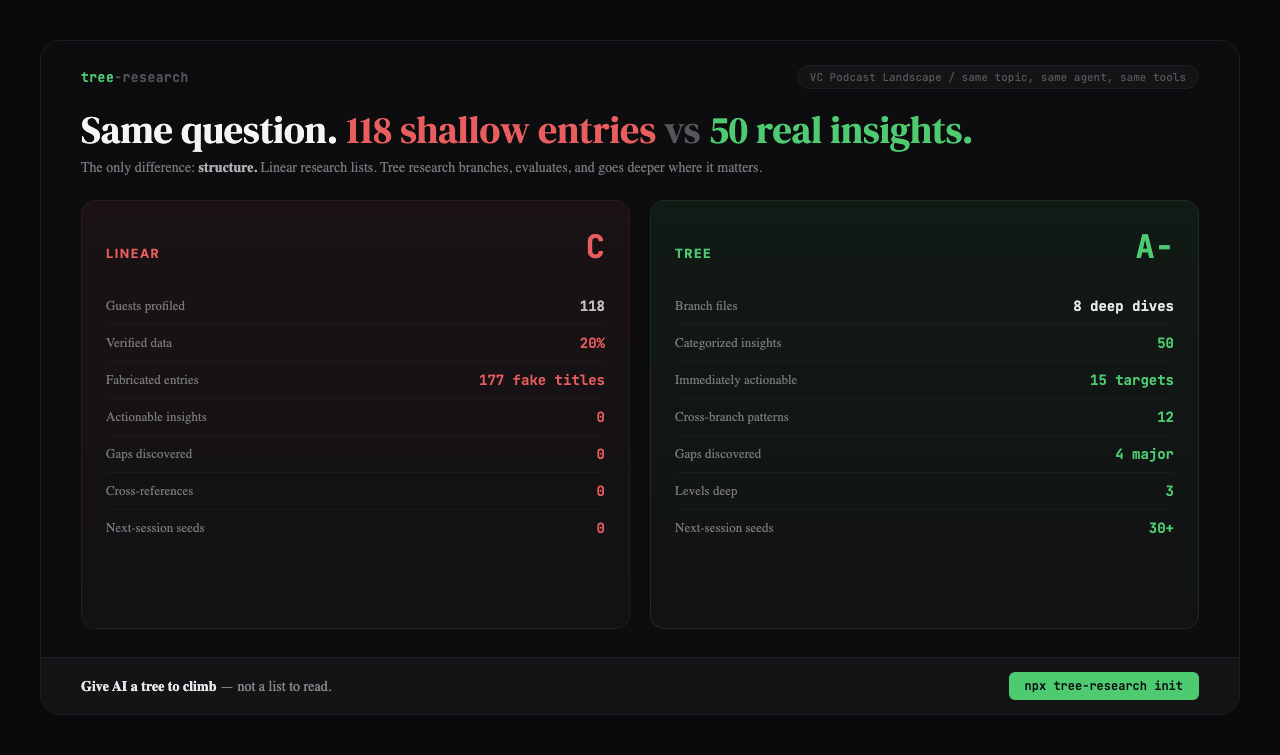
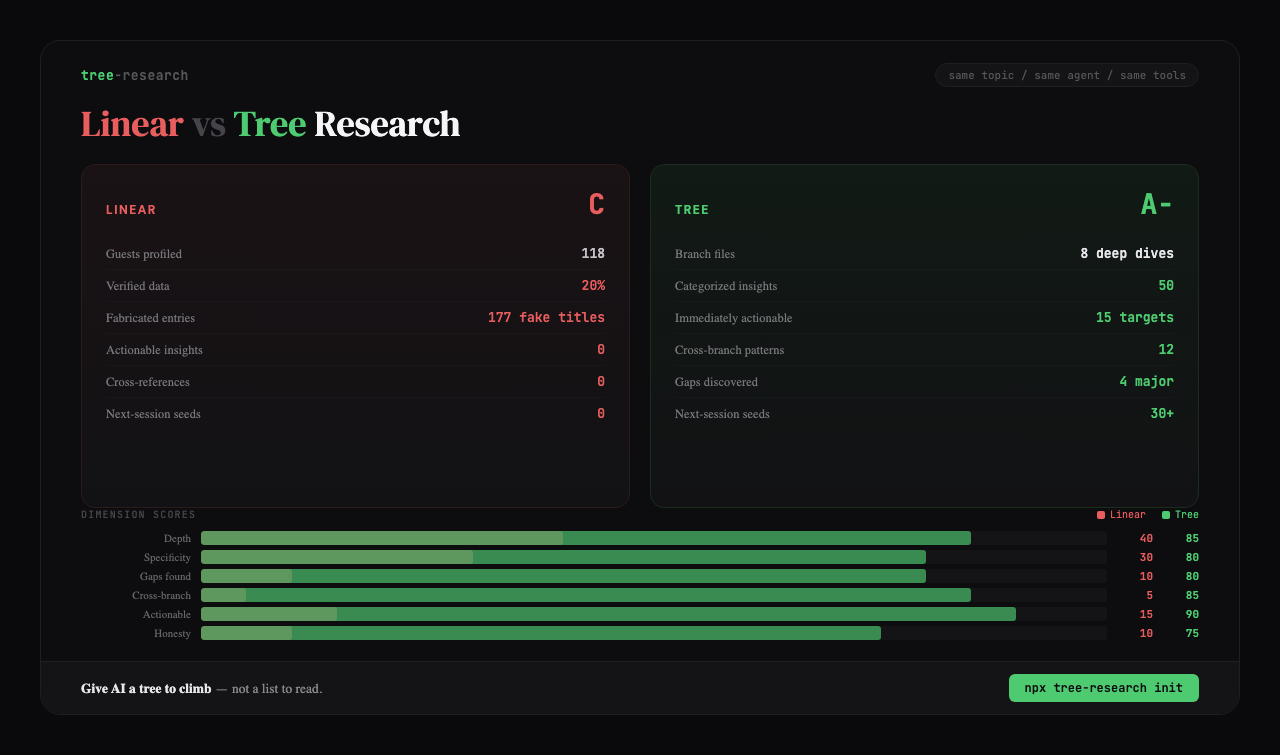
Update comparison card: headline + dimension score bars
Linear vs Tree Research headline. Added 6 dimension score bars
(depth, specificity, gaps, cross-branch, actionable, honesty)
with red/green layered fills and numeric scores.

diff --git a/examples/comparison-card.html b/examples/comparison-card.html
@@ -34,7 +34,7 @@
     display: flex;
     justify-content: space-between;
     align-items: center;
-    padding: 24px 40px 0 40px;
+    padding: 22px 40px 0 40px;
   }
 
   .logo {
@@ -59,28 +59,20 @@
 
   /* Headline */
   .headline {
-    padding: 20px 40px 0 40px;
+    padding: 16px 40px 0 40px;
   }
 
   .headline h1 {
     font-family: 'DM Serif Display', serif;
-    font-size: 38px;
+    font-size: 36px;
     font-weight: 400;
     color: #f5f5f7;
     line-height: 1.15;
   }
 
-  .headline h1 .dim { color: #55555a; }
-  .headline h1 .green { color: #4ecb71; }
   .headline h1 .red { color: #e85d5d; }
-
-  .headline .sub {
-    font-size: 14px;
-    color: #77777c;
-    margin-top: 6px;
-  }
-
-  .headline .sub strong { color: #b0b0b5; font-weight: 600; }
+  .headline h1 .green { color: #4ecb71; }
+  .headline h1 .dim { color: #44444a; }
 
   /* Main content area */
   .main {
@@ -88,13 +80,13 @@
     display: grid;
     grid-template-columns: 1fr 1fr;
     gap: 20px;
-    padding: 24px 40px 28px 40px;
+    padding: 20px 40px 0 40px;
   }
 
   /* Column cards */
   .col {
     border-radius: 14px;
-    padding: 24px;
+    padding: 20px 24px;
     display: flex;
     flex-direction: column;
   }
@@ -113,12 +105,12 @@
     display: flex;
     justify-content: space-between;
     align-items: baseline;
-    margin-bottom: 20px;
+    margin-bottom: 16px;
   }
 
   .col-title {
     font-family: 'DM Sans', sans-serif;
-    font-size: 13px;
+    font-size: 12px;
     font-weight: 700;
     letter-spacing: 1.5px;
     text-transform: uppercase;
@@ -129,7 +121,7 @@
 
   .col-grade {
     font-family: 'JetBrains Mono', monospace;
-    font-size: 32px;
+    font-size: 28px;
     font-weight: 700;
   }
 
@@ -138,7 +130,6 @@
 
   /* Metric rows */
   .metrics {
-    flex: 1;
     display: flex;
     flex-direction: column;
     gap: 0;
@@ -148,21 +139,21 @@
     display: flex;
     justify-content: space-between;
     align-items: center;
-    padding: 9px 0;
-    border-bottom: 1px solid #ffffff08;
+    padding: 7px 0;
+    border-bottom: 1px solid #ffffff06;
   }
 
   .m-row:last-child { border-bottom: none; }
 
   .m-label {
-    font-size: 13px;
+    font-size: 12.5px;
     color: #77777c;
     font-weight: 450;
   }
 
   .m-val {
     font-family: 'JetBrains Mono', monospace;
-    font-size: 14px;
+    font-size: 13px;
     font-weight: 600;
     text-align: right;
   }
@@ -173,18 +164,116 @@
   .m-val.bad { color: #e85d5d !important; }
   .m-val.good { color: #4ecb71 !important; }
 
-  /* Bottom bar with the punchline */
+  /* Score bars section */
+  .bars-section {
+    padding: 0 40px 16px 40px;
+  }
+
+  .bars-header {
+    display: flex;
+    justify-content: space-between;
+    align-items: center;
+    margin-bottom: 10px;
+  }
+
+  .bars-title {
+    font-family: 'JetBrains Mono', monospace;
+    font-size: 10px;
+    font-weight: 500;
+    letter-spacing: 1.2px;
+    text-transform: uppercase;
+    color: #44444a;
+  }
+
+  .bars-legend {
+    display: flex;
+    gap: 16px;
+    font-family: 'JetBrains Mono', monospace;
+    font-size: 10px;
+  }
+
+  .legend-item {
+    display: flex;
+    align-items: center;
+    gap: 5px;
+  }
+
+  .legend-dot {
+    width: 8px;
+    height: 8px;
+    border-radius: 2px;
+  }
+
+  .legend-dot.red { background: #e85d5d; }
+  .legend-dot.green { background: #4ecb71; }
+  .legend-label.red { color: #e85d5d; }
+  .legend-label.green { color: #4ecb71; }
+
+  .bar-row {
+    display: grid;
+    grid-template-columns: 110px 1fr 36px 36px;
+    align-items: center;
+    gap: 10px;
+    margin-bottom: 5px;
+  }
+
+  .bar-dim {
+    font-size: 11px;
+    color: #66666b;
+    font-weight: 500;
+    text-align: right;
+  }
+
+  .bar-track {
+    height: 14px;
+    background: #141416;
+    border-radius: 3px;
+    position: relative;
+    overflow: hidden;
+  }
+
+  .bar-fill {
+    position: absolute;
+    top: 0;
+    left: 0;
+    height: 100%;
+    border-radius: 3px;
+  }
+
+  .bar-fill.linear-bar {
+    background: #e85d5d;
+    opacity: 0.5;
+    z-index: 1;
+  }
+
+  .bar-fill.tree-bar {
+    background: #4ecb71;
+    opacity: 0.65;
+    z-index: 2;
+  }
+
+  .bar-num {
+    font-family: 'JetBrains Mono', monospace;
+    font-size: 11px;
+    font-weight: 600;
+    text-align: right;
+  }
+
+  .bar-num.red { color: #e85d5d; }
+  .bar-num.green { color: #4ecb71; }
+
+  /* Bottom bar */
   .bottom {
     background: #141416;
     border-top: 1px solid #1e1e24;
-    padding: 14px 40px;
+    padding: 12px 40px;
     display: flex;
     justify-content: space-between;
     align-items: center;
   }
 
   .bottom .punch {
-    font-size: 14px;
+    font-size: 13.5px;
     color: #88888d;
     font-weight: 450;
   }
@@ -210,12 +299,11 @@
 
   <div class="topbar">
     <div class="logo"><span>tree</span>-research</div>
-    <div class="tag">VC Podcast Landscape / same topic, same agent, same tools</div>
+    <div class="tag">same topic / same agent / same tools</div>
   </div>
 
   <div class="headline">
-    <h1>Same question. <span class="red">118 shallow entries</span> <span class="dim">vs</span> <span class="green">50 real insights.</span></h1>
-    <p class="sub">The only difference: <strong>structure.</strong> Linear research lists. Tree research branches, evaluates, and goes deeper where it matters.</p>
+    <h1><span class="red">Linear</span> <span class="dim">vs</span> <span class="green">Tree</span> Research</h1>
   </div>
 
   <div class="main">
@@ -240,10 +328,6 @@
         </div>
         <div class="m-row">
           <span class="m-label">Actionable insights</span>
-          <span class="m-val bad">0</span>
-        </div>
-        <div class="m-row">
-          <span class="m-label">Gaps discovered</span>
           <span class="m-val bad">0</span>
         </div>
         <div class="m-row">
@@ -285,14 +369,81 @@
           <span class="m-val good">4 major</span>
         </div>
         <div class="m-row">
-          <span class="m-label">Levels deep</span>
-          <span class="m-val good">3</span>
-        </div>
-        <div class="m-row">
           <span class="m-label">Next-session seeds</span>
           <span class="m-val good">30+</span>
         </div>
       </div>
+    </div>
+  </div>
+
+  <!-- Score comparison bars -->
+  <div class="bars-section">
+    <div class="bars-header">
+      <span class="bars-title">Dimension scores</span>
+      <div class="bars-legend">
+        <div class="legend-item"><div class="legend-dot red"></div><span class="legend-label red">Linear</span></div>
+        <div class="legend-item"><div class="legend-dot green"></div><span class="legend-label green">Tree</span></div>
+      </div>
+    </div>
+
+    <div class="bar-row">
+      <span class="bar-dim">Depth</span>
+      <div class="bar-track">
+        <div class="bar-fill linear-bar" style="width:40%"></div>
+        <div class="bar-fill tree-bar" style="width:85%"></div>
+      </div>
+      <span class="bar-num red">40</span>
+      <span class="bar-num green">85</span>
+    </div>
+
+    <div class="bar-row">
+      <span class="bar-dim">Specificity</span>
+      <div class="bar-track">
+        <div class="bar-fill linear-bar" style="width:30%"></div>
+        <div class="bar-fill tree-bar" style="width:80%"></div>
+      </div>
+      <span class="bar-num red">30</span>
+      <span class="bar-num green">80</span>
+    </div>
+
+    <div class="bar-row">
+      <span class="bar-dim">Gaps found</span>
+      <div class="bar-track">
+        <div class="bar-fill linear-bar" style="width:10%"></div>
+        <div class="bar-fill tree-bar" style="width:80%"></div>
+      </div>
+      <span class="bar-num red">10</span>
+      <span class="bar-num green">80</span>
+    </div>
+
+    <div class="bar-row">
+      <span class="bar-dim">Cross-branch</span>
+      <div class="bar-track">
+        <div class="bar-fill linear-bar" style="width:5%"></div>
+        <div class="bar-fill tree-bar" style="width:85%"></div>
+      </div>
+      <span class="bar-num red">5</span>
+      <span class="bar-num green">85</span>
+    </div>
+
+    <div class="bar-row">
+      <span class="bar-dim">Actionable</span>
+      <div class="bar-track">
+        <div class="bar-fill linear-bar" style="width:15%"></div>
+        <div class="bar-fill tree-bar" style="width:90%"></div>
+      </div>
+      <span class="bar-num red">15</span>
+      <span class="bar-num green">90</span>
+    </div>
+
+    <div class="bar-row">
+      <span class="bar-dim">Honesty</span>
+      <div class="bar-track">
+        <div class="bar-fill linear-bar" style="width:10%"></div>
+        <div class="bar-fill tree-bar" style="width:75%"></div>
+      </div>
+      <span class="bar-num red">10</span>
+      <span class="bar-num green">75</span>
     </div>
   </div>
 
